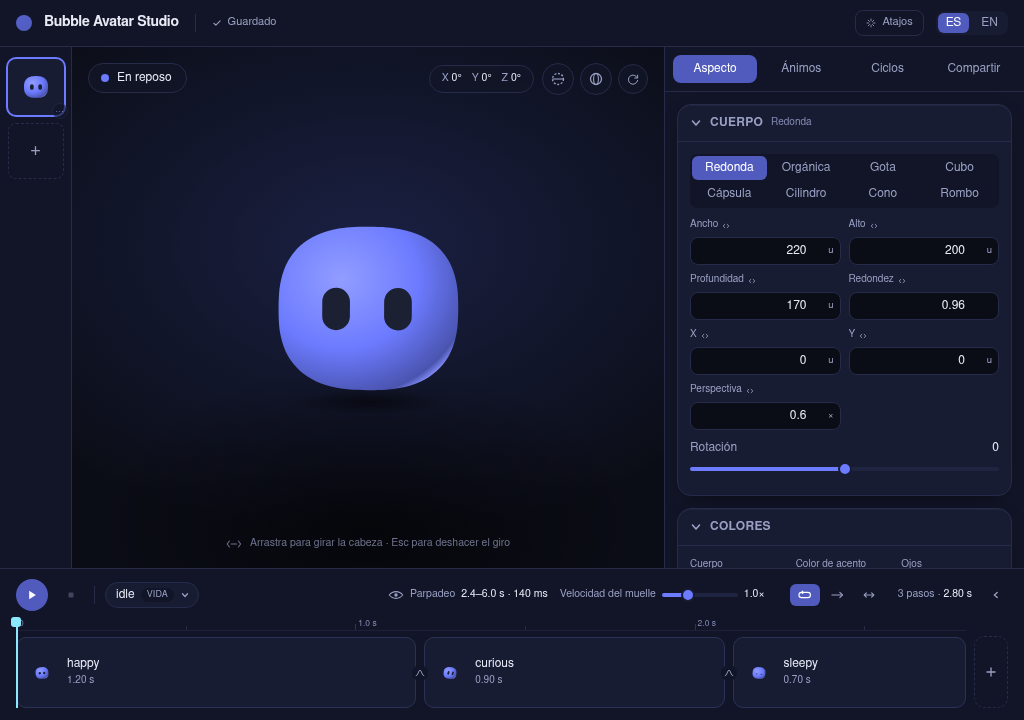
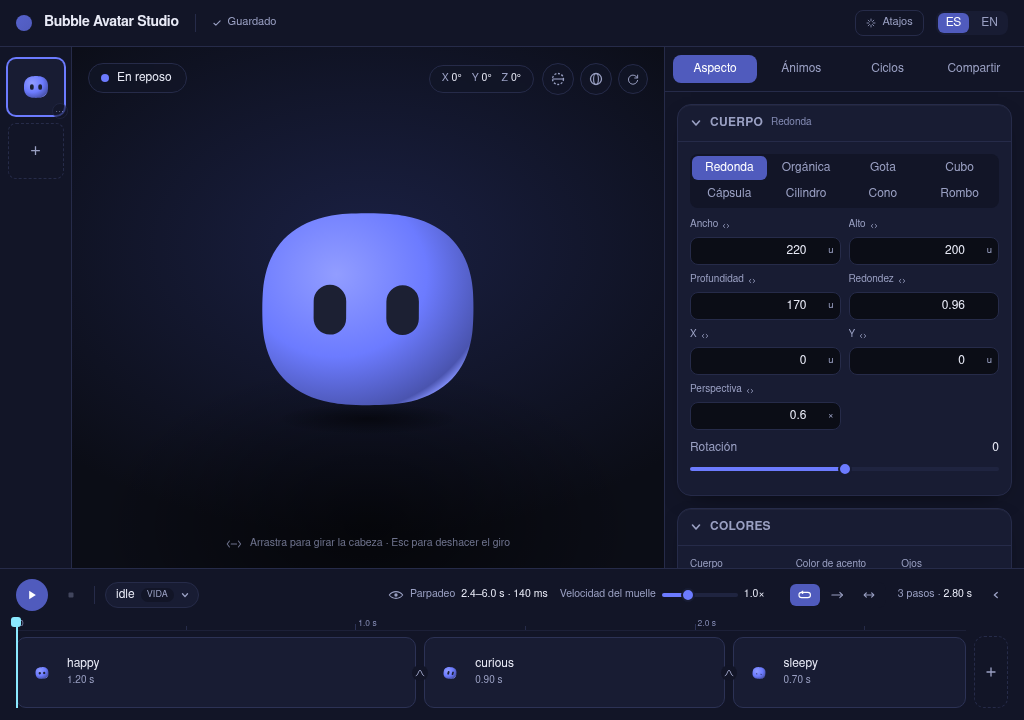
Let the character take the stage it is given (docs/05 §1)
The render was capped at `min(80%, 32rem)` against an SVG whose intrinsic box
is 512px, so on any window taller than ~640px the cap stopped binding and the
character just sat at its natural size while the stage grew around it — 222px
of body inside a 1008x701 column at 1440x900.

It is sized off the column's short side now, `min(94%, 40rem)` with
`aspect-square`, since the scene's viewBox is square and the long side is
padding either way. Measured across three window sizes: the body goes 207→244
at 1280x800, 222→277 at 1440x900, and 181→213 at the 1024x720 the narrow
scenario guards, where the square still fits the column's width with room to
spare.

The Share panel's export frame reads the same expression. It has to: FR-10.6
is that the frame covers exactly the box the render occupies, and it was
already drifting — `w-[min(80%,32rem)]` resolves its percentage against the
column's *width*, so at 1280 the frame was 512x481 over a 481x481 render. Both
are square by construction now.

The boot scenario measures it, because a CSS `min()` of a percentage and a rem
is not a number until a browser lays the column out. Watched failing at 481
against the 565 it should have been.

Changed region(s): [[0.25, 0.275, 0.4688, 0.5806], [0.375, 0.3972, 0.4062, 0.4889]]

diff --git a/e2e/smoke.spec.ts b/e2e/smoke.spec.ts
@@ -28,6 +28,24 @@ test("boot: studio shell renders with a starter bubble", async ({ page }) => {
     page.getByRole("heading", { level: 1, name: "Bubble Avatar Studio" }),
   ).toBeVisible();
   await expect(page.getByLabel("bubble stage")).toBeVisible();
+
+  // The render takes the stage's short side up to its own cap (docs/05 §1).
+  // Measured here because the cap is a CSS `min()` of a percentage and a rem —
+  // neither is a number until a browser lays the column out.
+  const fills = await page.evaluate(() => {
+    const stage = document.querySelector('[aria-label="bubble stage"]');
+    const svg = stage?.querySelector("svg");
+    if (!stage || !svg) return null;
+    const box = stage.getBoundingClientRect();
+    const drawn = svg.getBoundingClientRect();
+    const allowed = Math.min(box.width, box.height) * 0.94;
+    return {
+      drawn: Math.round(drawn.height),
+      want: Math.round(Math.min(allowed, 640)),
+    };
+  });
+  expect(fills?.drawn).toBe(fills?.want);
+
   await expect(page.getByRole("tab", { name: "Aspecto" })).toBeVisible();
   await expect(
     page.getByRole("button", { name: "Nueva burbuja" }),

diff --git a/src/app/studio/panels/SharePanel.tsx b/src/app/studio/panels/SharePanel.tsx
@@ -499,7 +499,7 @@ function groupLabel(group: string, t: (k: MessageKey) => string): string {
  *
  * It covers exactly the box the render occupies, which is what makes it true
  * rather than decorative: the scene's viewBox is square and the stage caps it
- * at the same `min(80%, 32rem)` this uses.
+ * at the same `min(94%, 40rem)` this uses.
  */
 function ExportFrame({
   label,
@@ -519,7 +519,7 @@ function ExportFrame({
         <div
           data-testid="export-frame"
           aria-label={frameLabel}
-          className="relative h-[min(80%,32rem)] w-[min(80%,32rem)] border border-dashed border-accent/45"
+          className="relative aspect-square h-[min(94%,40rem)] w-auto max-w-[94%] border border-dashed border-accent/45"
         >
           {(
             [

diff --git a/src/app/stage/Stage.tsx b/src/app/stage/Stage.tsx
@@ -179,7 +179,7 @@ export function Stage({
 
       <div
         ref={hostRef}
-        className="relative grid h-full w-full cursor-grab touch-none place-items-center text-accent outline-none [&>svg]:h-auto [&>svg]:max-h-[min(80%,32rem)] [&>svg]:w-auto [&>svg]:max-w-[min(80%,32rem)] active:cursor-grabbing"
+        className="relative grid h-full w-full cursor-grab touch-none place-items-center text-accent outline-none [&>svg]:aspect-square [&>svg]:h-[min(94%,40rem)] [&>svg]:w-auto [&>svg]:max-w-[94%] active:cursor-grabbing"
         role="img"
         aria-label="bubble stage"
         tabIndex={0}

diff --git a/docs/05-ui-design.md b/docs/05-ui-design.md
@@ -69,7 +69,14 @@
   active highlight, add, and a per-bubble context menu (kebab or right-click)
   carrying rename, duplicate, move up/down and delete-with-confirm. The menu
   closes on Escape or an outside click.
-- **Stage:** soft radial gradient backdrop (indigo-950→black), bubble centered.
+- **Stage:** soft radial gradient backdrop (indigo-950→black), bubble centered
+  at `min(94%, 40rem)` of the column's short side — the scene's viewBox is
+  square, so the render is sized off the short side and the long one is padding.
+  It was `min(80%, 32rem)` capping an intrinsic 512px box, which on a wide
+  window left the character at its natural size with the stage growing around
+  it. The Share panel's export frame reads the same expression, because a frame
+  that does not cover exactly the box the render occupies is decorative
+  (FR-10.6).
   Overlays: top-left status pill (`● playing idle` / `paused`), top-right gizmo
   button. The transport was a dock floating here until the track redesign; it
   is the full-width band below all three columns now (FR-6.6, and the bullet
@@ -312,7 +319,7 @@ kept selectable so its loops are never stranded without a chip.
 number in the panel: framing is a decision made by looking at the character,
 and a crop stated only as `1024` has to be imagined over it. The frame covers
 exactly the box the render occupies — the scene's viewBox is square and the
-stage caps it at the same `min(80%, 32rem)` the frame uses — with corner
+stage caps it at the same `min(94%, 40rem)` the frame uses — with corner
 marks, a label naming the size and background it will have, and a line saying
 which stage chrome (the guide, the contact shadow) the export leaves behind.
 Like every stage overlay it is a sibling of the engine's host element, never

diff --git a/docs/07-testing-strategy.md b/docs/07-testing-strategy.md
@@ -76,7 +76,7 @@ Playwright spec** of **11 scenarios** — boot, panels, a playing loop and the
 rail menu, joined by the mood editor's focus behaviour, the gizmo, the
 wireframe, the Share preview, drag-to-scrub, drag-to-reorder, and a 1024×720
 check that the track's first row and the inspector do not clip. Production
-bundle 347.13 kB JS / 37.86 kB CSS (103.90 / 7.47 gzipped).
+bundle 347.14 kB JS / 37.87 kB CSS (103.93 / 7.49 gzipped).
 
 Two of those scenarios exist because jsdom cannot decide them. The playing
 loop asserts the **playhead has moved**: jsdom can prove the writer runs, not

diff --git a/README.md b/README.md
@@ -32,7 +32,7 @@ between runs.
 mood pose and a two-defect pass over the v0.1.0 that closed F5. See
 `docs/08-roadmap.md` for the phases and `docs/02-functional-spec.md` for the
 requirements each one closes. Current gate: **646 tests across 36 files**, plus
-a Playwright smoke of 11 scenarios, on a 347.13 kB / 37.86 kB production bundle
+a Playwright smoke of 11 scenarios, on a 347.14 kB / 37.87 kB production bundle
 — re-derive with `pnpm test` and `pnpm build` rather than trusting this line.
 
 Landed so far: the pure domain, render, export and runtime layers; a studio
